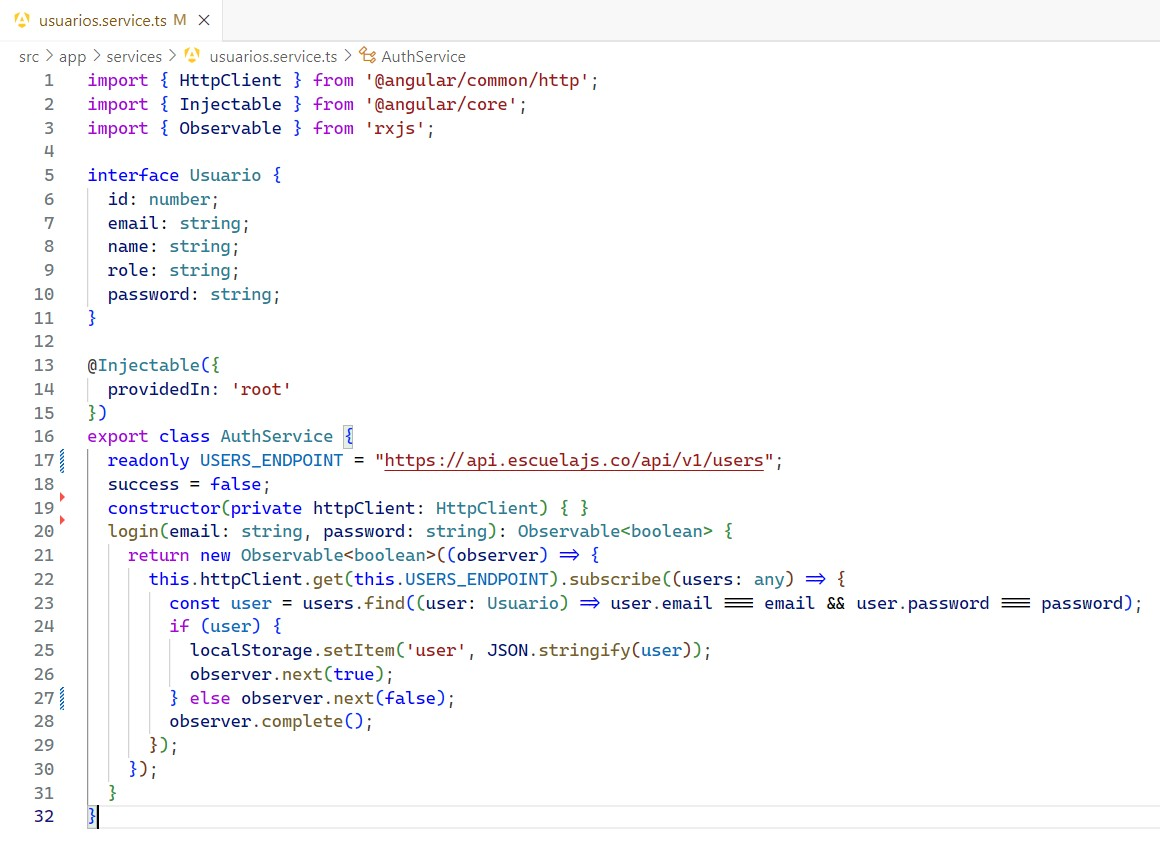
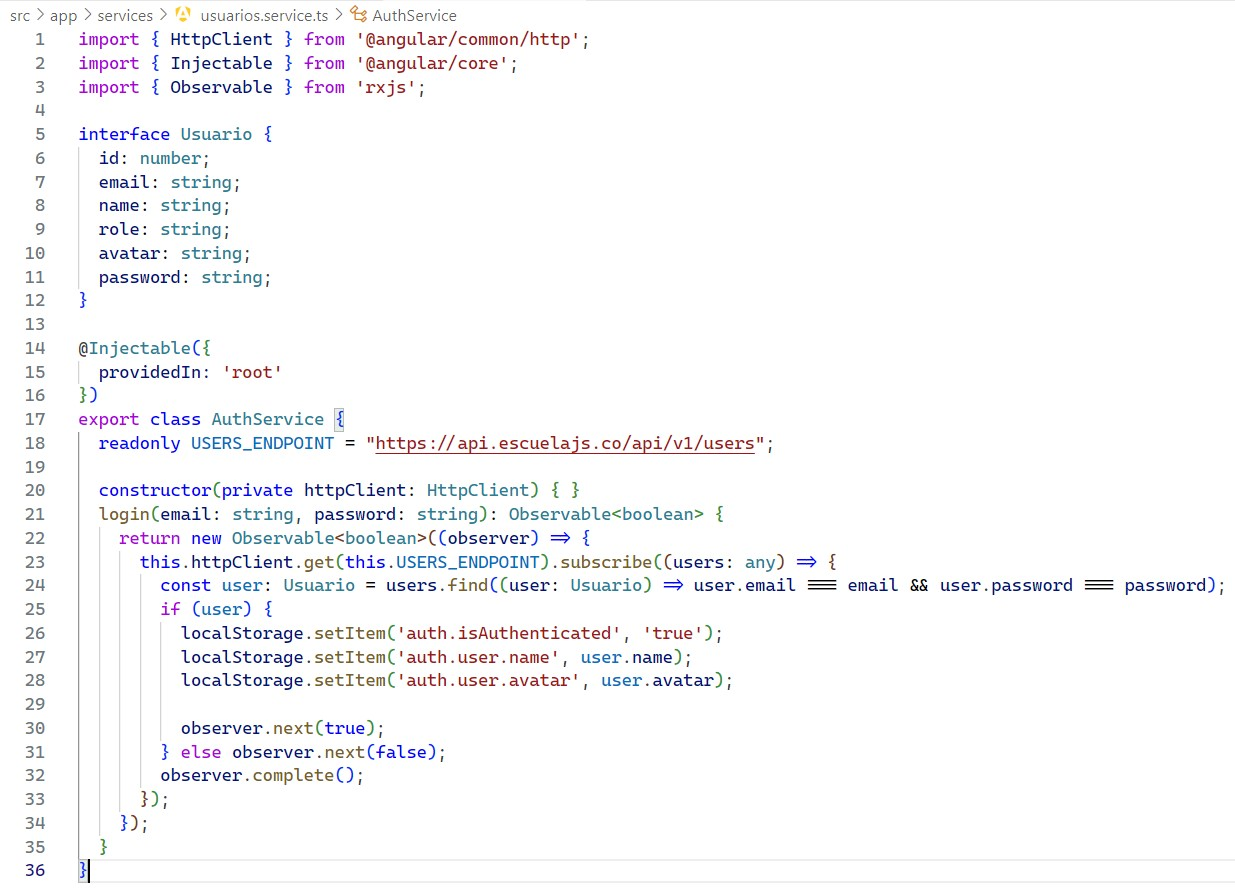
capturas

Changed region(s): [[0.0, 0.0, 0.9931, 1.0]]

diff --git a/src/app/services/productos.service.spec.ts b/src/app/services/productos.service.spec.ts
@@ -1,0 +1,16 @@
+import { TestBed } from '@angular/core/testing';
+
+import { ProductosService } from './productos.service';
+
+describe('ProductosService', () => {
+  let service: ProductosService;
+
+  beforeEach(() => {
+    TestBed.configureTestingModule({});
+    service = TestBed.inject(ProductosService);
+  });
+
+  it('should be created', () => {
+    expect(service).toBeTruthy();
+  });
+});

diff --git a/src/app/services/productos.service.ts b/src/app/services/productos.service.ts
@@ -1,0 +1,9 @@
+import { Injectable } from '@angular/core';
+
+@Injectable({
+  providedIn: 'root'
+})
+export class ProductosService {
+
+  constructor() { }
+}

diff --git a/README.md b/README.md
@@ -4,7 +4,7 @@
 
 ## Consumo de API de Terceros y Login
 
-En este proyecto, vamos a crear una aplicación simple de login en Angular junto con el consumo de una REST API de productos. El objetivo es verificar si las credenciales de usuario (email y password) proporcionadas por el usuario existen en un array de usuarios que obtendremos desde una API externa. Usaremos la API de **EscuelaJS** para obtener los datos de los usuarios. La API de productos se encuentra en [este enlace](https://fakestoreapi.com/products).
+En este proyecto, vamos a crear una aplicación simple de login en Angular junto con el consumo de una REST API de productos. Para el login se verficaia si las credenciales de usuario (email y password) proporcionadas por el usuario existen en un array de usuarios que obtendremos desde una API externa. Luego de iniciar sesión se muestra una tabla paginada, con filtros cuya información se obtiene de una API de productos se encuentra en [este enlace](https://fakestoreapi.com/products).
 
 #### Características principales:
 - **Consumo de API REST:** Se realiza una solicitud HTTP GET al endpoint de usuarios para obtener los datos. Además usaremos una API de productos para mostrarlos en una tabla.
@@ -23,7 +23,6 @@ En este proyecto, vamos a crear una aplicación simple de login en Angular junto
 Para iniciar el proyecto, se utiliza Angular CLI, una herramienta que facilita la creación y configuración inicial de aplicaciones Angular. Sigue los pasos a continuación para crear el proyecto:
 
 #### Comando para crear el proyecto
-Se ejecuta el siguiente comando en tu terminal para generar una nueva aplicación Angular
 
 ![paso1](imagenes/1.jpg)
 
@@ -70,9 +69,10 @@ Este será el componente al que el usuario accederá si el login fue existoso
 
 ![paso3](imagenes/3.jpg)
 
-### Paso 4: Generar el servicio de usuarios
+### Paso 4: Generar el servicio de usuarios y de productos
 
 ![paso4](imagenes/4.jpg)
+![paso4_2](imagenes/4_2.jpg)
 
 ### Paso 5: Proporcionar el el cliente HTTP a la aplicación
 
@@ -90,7 +90,7 @@ Para ello se define la lógica de login accediendo a la API de terceros de la es
 
 ![paso7](imagenes/7.jpg)
 
-### Paso 8: Crear NTML para el formulario de login
+### Paso 8: Crear la página de login
 
 ![paso8](imagenes/8.jpg)
 
@@ -98,19 +98,59 @@ Para ello se define la lógica de login accediendo a la API de terceros de la es
 
 ![paso9](imagenes/9.jpg)
 
-### Paso 10: Crear el HTML del dashboard
+### Paso 10: Crear el dashboard
 
 Este será el componente que verá después de un login exitoso, este contiene el consumo de una API de productos. Se muestran en una tabla usando Angular Material.
 
-TS
+Código de typescript
 
 ![paso10_ts1](imagenes/dashboard_ts1.jpg)
 ![paso10_ts1](imagenes/dashboard_ts2.jpg)
 
-HTML
+Código de HTML
 
 ![paso10_html](imagenes/dashboard_html.jpg)
 
+Código de CSS
+
+![paso10_css](imagenes/dashboard_css.jpg)
+
+### Paso 11: Crear el formulario para editar productos
+
+Código de Typescript
+
+![paso11_ts](imagenes/product-form1.jpg)
+
+Código de HTML
+
+![paso11_html](imagenes/product-form_html1.jpg)
+![paso11_html](imagenes/product-form_html2.jpg)
+
+Código CSS
+
+![paso11_html](imagenes/product-form1_css.jpg)
+
+### Paso 12: Crear el formulario de ver producto
+
+Código de Typescript
+
+![paso12_html](imagenes/ver-producto-ts.jpg)
+
+Código de HTML
+
+![paso12_html](imagenes/ver-producto-html.jpg)
+
+Código CSS
+
+![paso12_html](imagenes/ver-producto-css.jpg)
+
+### Paso 13: Configurar el servicio de productos
+
+![paso13_1](imagenes/productos1.jpg)
+
+![paso13_1](imagenes/productos2.jpg)
+
+![paso13_1](imagenes/productos3.jpg)
 
 ### Pruebas
 
@@ -124,6 +164,3 @@ Se muestra mensaje de error
 
 ### Login correcto
 
-Se redirecciona a /dashboard
-
-![p1](imagenes/p2.jpg)
